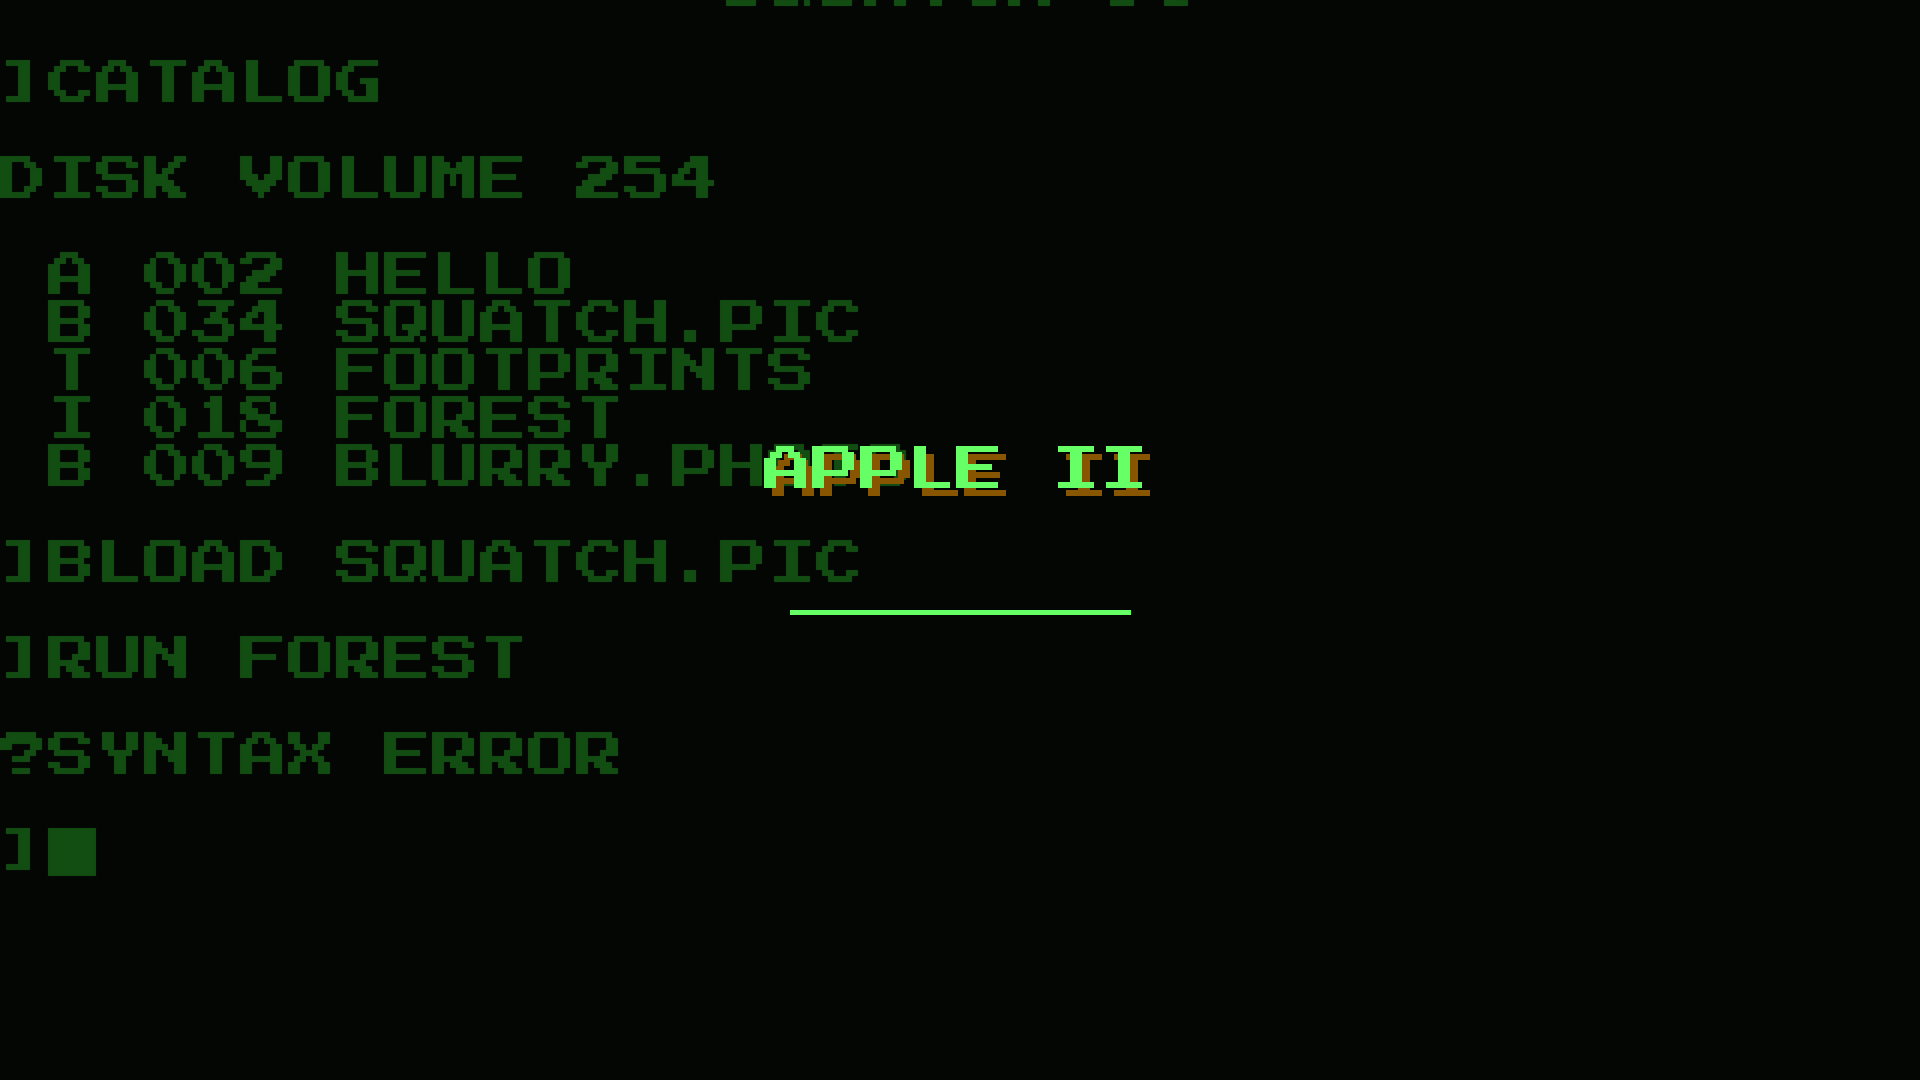
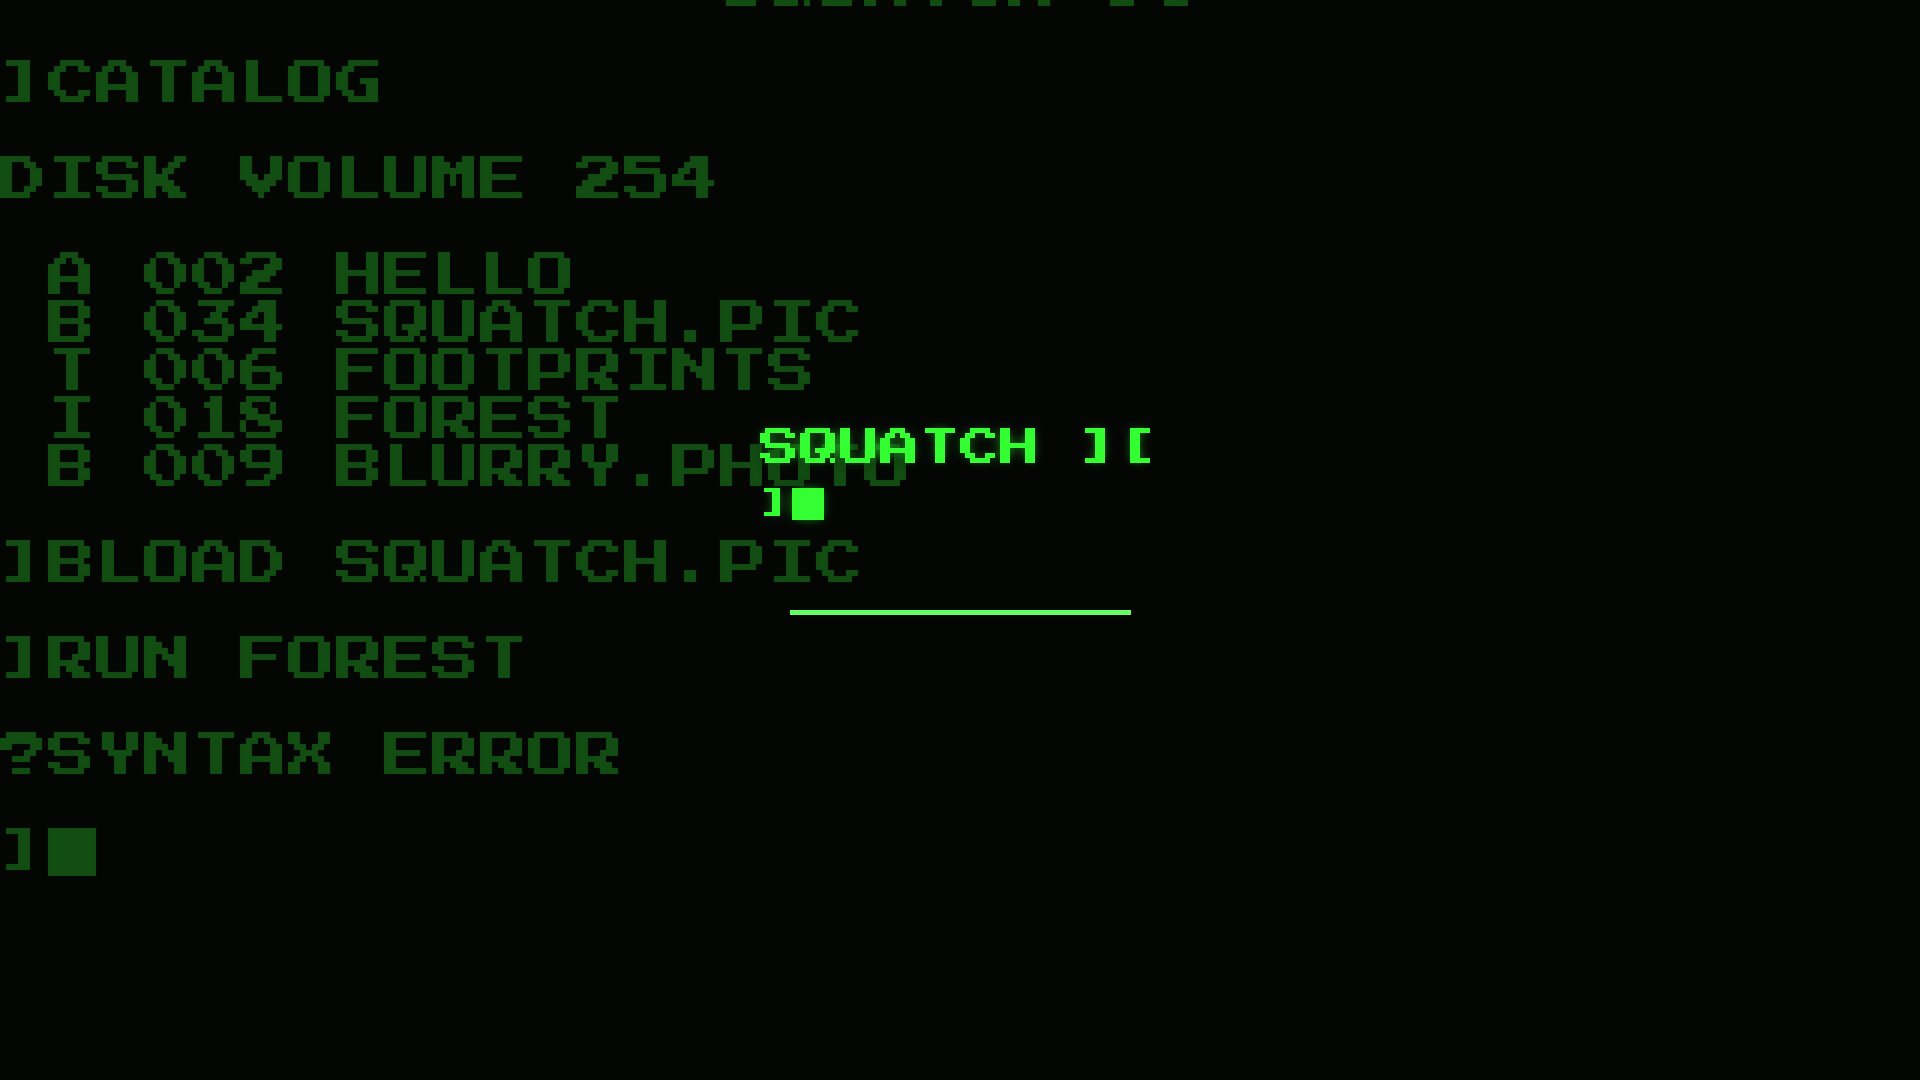
Boot splash, screensaver and extras

Changed region(s): [[0.375, 0.3972, 0.625, 0.4889]]

diff --git a/README.md b/README.md
@@ -21,7 +21,21 @@ omarchy theme install https://github.com/squatchware/omarchy-apple-2-theme
 - **Wallpapers**, drawn at the machine's own resolution and scaled up with no smoothing:
 - `01-catalog.png`
 - `02-lores.png`
-- **Lock screen** wordmark (`unlock.png`).
+- **Boot splash and lock screen** (`unlock.png`): the machine's own start-up screen.
+- **Screensaver** art (`screensaver.txt`), animated by Omarchy's screensaver.
+
+## Extras
+
+The screensaver and boot splash need one command each (the second asks for sudo):
+
+```sh
+~/.config/omarchy/themes/apple-2/extras/install-extras.sh          # screensaver
+~/.config/omarchy/themes/apple-2/extras/install-extras.sh --boot   # + boot splash
+```
+
+The screensaver hook is shared by every Squatchware theme: it uses the active theme's art and
+puts your own back when you switch to a theme without any. The boot splash stays until you run
+`omarchy plymouth set by theme <name>` for another theme.
 
 ## The rest of the pack
 
